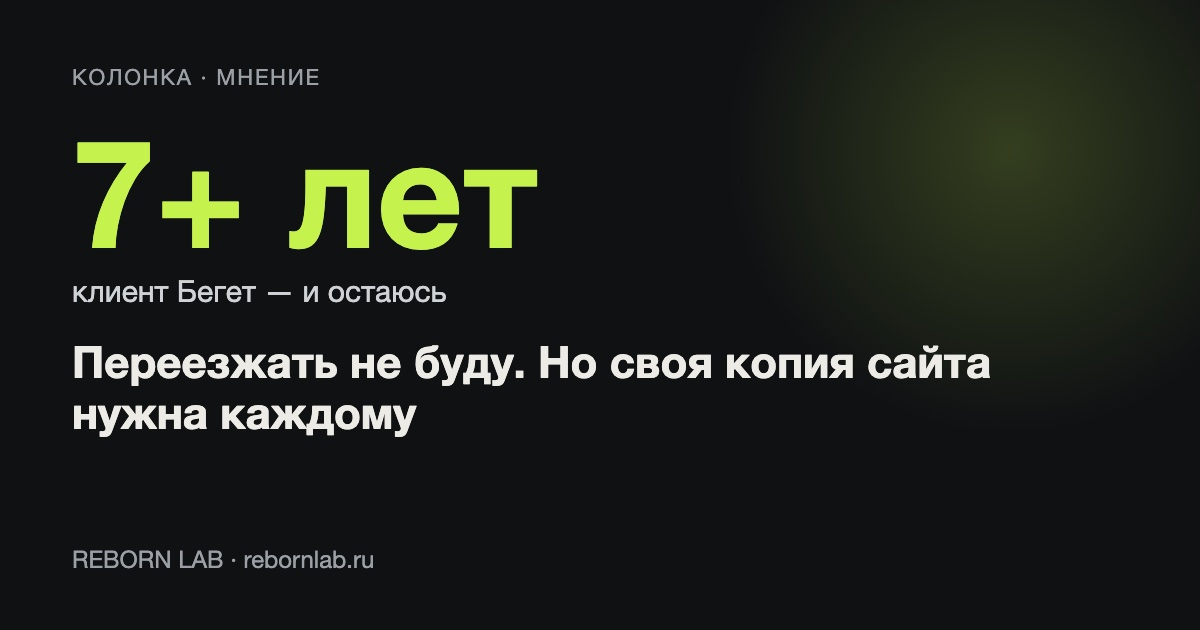
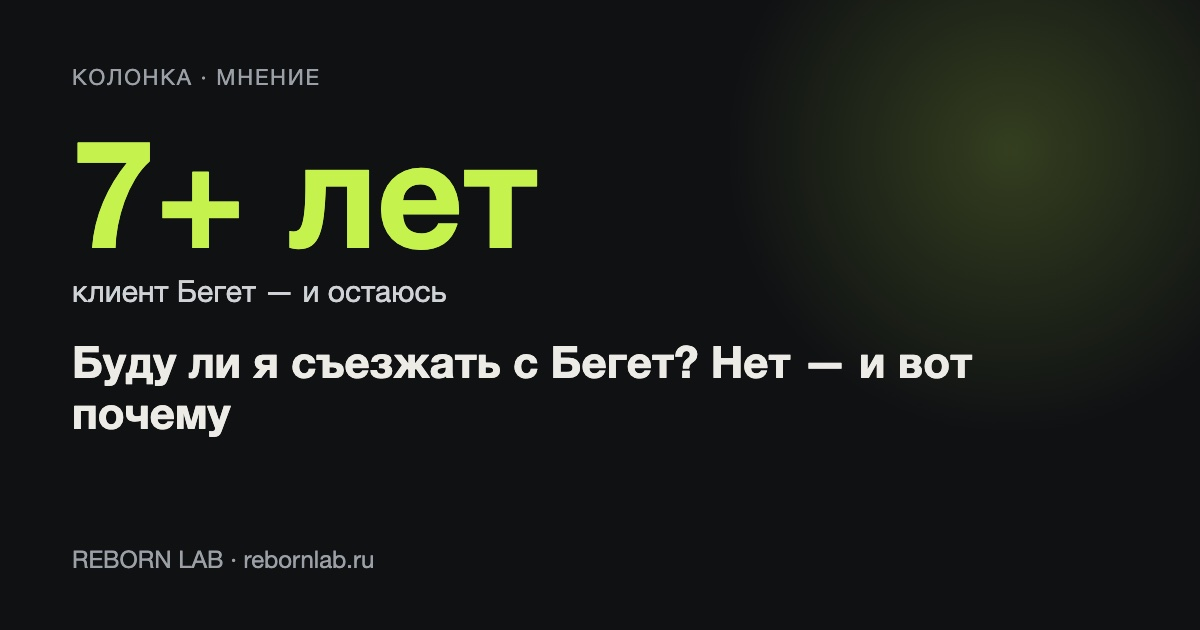
Черновик колонки: заголовок без давления, без советов команде

Changed region(s): [[0.0617, 0.5429, 0.8325, 0.6937]]

diff --git a/demo/preview-ostatsya/index.html b/demo/preview-ostatsya/index.html
@@ -3,26 +3,26 @@
 <head><meta name="robots" content="noindex, nofollow">
 <meta charset="utf-8">
 <meta name="viewport" content="width=device-width, initial-scale=1">
-<title>Буду ли я съезжать с Бегет? Нет — но у вас всегда должна быть своя копия сайта — REBORN LAB</title>
+<title>Буду ли я съезжать с Бегет после сбоя? Нет — и вот почему — REBORN LAB</title>
 <meta name="description" content="Я давно клиент Бегет и переезжать не собираюсь. Рассказываю, почему сбой меня не коснулся, что сделать, чтобы следующий сбой любого хостинга не стал катастрофой, и как быстро вернуть сайт, если он уже несколько дней не работает.">
 
 <meta property="og:type" content="article">
 <meta property="og:site_name" content="REBORN LAB">
 <meta property="og:locale" content="ru_RU">
-<meta property="og:title" content="Буду ли я съезжать с Бегет? Нет — но у вас всегда должна быть своя копия сайта — REBORN LAB">
+<meta property="og:title" content="Буду ли я съезжать с Бегет после сбоя? Нет — и вот почему — REBORN LAB">
 <meta property="og:description" content="Я давно клиент Бегет и переезжать не собираюсь. Рассказываю, почему сбой меня не коснулся, что сделать, чтобы следующий сбой любого хостинга не стал катастрофой, и как быстро вернуть сайт, если он уже несколько дней не работает.">
 <meta property="og:url" content="https://rebornlab.ru/journal/ostatsya-ili-pereekhat-hosting/">
 <meta property="og:image" content="https://rebornlab.ru/assets/journal/ostatsya-ili-pereekhat-hosting.jpg">
 <meta name="twitter:card" content="summary_large_image">
-<meta name="twitter:title" content="Буду ли я съезжать с Бегет? Нет — но у вас всегда должна быть своя копия сайта — REBORN LAB">
+<meta name="twitter:title" content="Буду ли я съезжать с Бегет после сбоя? Нет — и вот почему — REBORN LAB">
 <meta name="twitter:description" content="Я давно клиент Бегет и переезжать не собираюсь. Рассказываю, почему сбой меня не коснулся, что сделать, чтобы следующий сбой любого хостинга не стал катастрофой, и как быстро вернуть сайт, если он уже несколько дней не работает.">
 <meta name="twitter:image" content="https://rebornlab.ru/assets/journal/ostatsya-ili-pereekhat-hosting.jpg">
 <meta name="theme-color" content="#08090a">
 <link rel="icon" href="/assets/favicon.svg" type="image/svg+xml">
 <link rel="alternate" type="application/rss+xml" title="REBORN LAB — Журнал" href="/rss.xml">
 <link rel="stylesheet" href="/assets/styles.css?v=63fb7997">
-<script type="application/ld+json">{"@context":"https://schema.org","@type":"BreadcrumbList","itemListElement":[{"@type":"ListItem","position":1,"name":"Главная","item":"https://rebornlab.ru/"},{"@type":"ListItem","position":2,"name":"Журнал","item":"https://rebornlab.ru/journal/"},{"@type":"ListItem","position":3,"name":"Буду ли я съезжать с Бегет? Нет — но у вас всегда должна быть своя копия сайта","item":"https://rebornlab.ru/journal/ostatsya-ili-pereekhat-hosting/"}]}</script>
-<script type="application/ld+json">{"@context":"https://schema.org","@type":"Article","headline":"Буду ли я съезжать с Бегет? Нет — но у вас всегда должна быть своя копия сайта","description":"Я давно клиент Бегет и переезжать не собираюсь. Рассказываю, почему сбой меня не коснулся, что сделать, чтобы следующий сбой любого хостинга не стал катастрофой, и как быстро вернуть сайт, если он уже несколько дней не работает.","datePublished":"2026-11-08T10:00:00+03:00","dateModified":"2026-11-08T10:00:00+03:00","inLanguage":"ru","author":{"@type":"Organization","name":"REBORN LAB","url":"https://rebornlab.ru"},"publisher":{"@type":"Organization","name":"REBORN LAB","logo":{"@type":"ImageObject","url":"https://rebornlab.ru/assets/logo.png"}},"mainEntityOfPage":"https://rebornlab.ru/journal/ostatsya-ili-pereekhat-hosting/","image":"https://rebornlab.ru/assets/journal/ostatsya-ili-pereekhat-hosting.jpg","articleSection":"Сайты","wordCount":508}</script>
+<script type="application/ld+json">{"@context":"https://schema.org","@type":"BreadcrumbList","itemListElement":[{"@type":"ListItem","position":1,"name":"Главная","item":"https://rebornlab.ru/"},{"@type":"ListItem","position":2,"name":"Журнал","item":"https://rebornlab.ru/journal/"},{"@type":"ListItem","position":3,"name":"Буду ли я съезжать с Бегет после сбоя? Нет — и вот почему","item":"https://rebornlab.ru/journal/ostatsya-ili-pereekhat-hosting/"}]}</script>
+<script type="application/ld+json">{"@context":"https://schema.org","@type":"Article","headline":"Буду ли я съезжать с Бегет после сбоя? Нет — и вот почему","description":"Я давно клиент Бегет и переезжать не собираюсь. Рассказываю, почему сбой меня не коснулся, что сделать, чтобы следующий сбой любого хостинга не стал катастрофой, и как быстро вернуть сайт, если он уже несколько дней не работает.","datePublished":"2026-11-08T10:00:00+03:00","dateModified":"2026-11-08T10:00:00+03:00","inLanguage":"ru","author":{"@type":"Organization","name":"REBORN LAB","url":"https://rebornlab.ru"},"publisher":{"@type":"Organization","name":"REBORN LAB","logo":{"@type":"ImageObject","url":"https://rebornlab.ru/assets/logo.png"}},"mainEntityOfPage":"https://rebornlab.ru/journal/ostatsya-ili-pereekhat-hosting/","image":"https://rebornlab.ru/assets/journal/ostatsya-ili-pereekhat-hosting.jpg","articleSection":"Сайты","wordCount":499}</script>
 <script>window.RL_METRIKA=113418511;window.RL_LOAD_METRIKA=function(){(function(m,e,t,r,i,k,a){m[i]=m[i]||function(){(m[i].a=m[i].a||[]).push(arguments)};m[i].l=1*new Date();k=e.createElement(t),a=e.getElementsByTagName(t)[0],k.async=1,k.src=r,a.parentNode.insertBefore(k,a)})(window,document,'script','https://mc.yandex.ru/metrika/tag.js?id=113418511','ym');ym(113418511,'init',{ssr:true,webvisor:true,clickmap:true,ecommerce:'dataLayer',referrer:document.referrer,url:location.href,accurateTrackBounce:true,trackLinks:true})};</script>
 </head>
 <body>
@@ -33,12 +33,12 @@
   <button class="burger" aria-label="Меню" aria-expanded="false">☰</button>
 </div></header>
 <div style="background:#c6f24e;color:#111;text-align:center;padding:10px;font:600 14px sans-serif">ЧЕРНОВИК для Ника — не опубликован, не в журнале, скрыт от поисковиков</div><main>
-<article><div class="wrap page-hd"><div class="crumbs"><a href="/">Главная</a> / <a href="/journal/">Журнал</a> / Буду ли я съезжать с Бегет? Нет — но у вас всегда должна быть своя копия сайта</div><div class="kicker" style="margin-top:18px">Сайты · 8 ноября 2026 г., 10:00 МСК · 3 мин</div><h1 style="max-width:20ch">Буду ли я съезжать с Бегет? Нет — но у вас всегда должна быть своя копия сайта</h1><p class="sub">Я давно клиент Бегет и переезжать не собираюсь. Рассказываю, почему сбой меня не коснулся, что сделать, чтобы следующий сбой любого хостинга не стал катастрофой, и как быстро вернуть сайт, если он уже несколько дней не работает.</p><img src="/assets/journal/ostatsya-ili-pereekhat-hosting.jpg" alt="Буду ли я съезжать с Бегет? Нет — но у вас всегда должна быть своя копия сайта" width="1200" height="630" style="display:block;width:100%;max-width:900px;height:auto;border-radius:16px;margin-top:22px"></div>
+<article><div class="wrap page-hd"><div class="crumbs"><a href="/">Главная</a> / <a href="/journal/">Журнал</a> / Буду ли я съезжать с Бегет после сбоя? Нет — и вот почему</div><div class="kicker" style="margin-top:18px">Сайты · 8 ноября 2026 г., 10:00 МСК · 3 мин</div><h1 style="max-width:20ch">Буду ли я съезжать с Бегет после сбоя? Нет — и вот почему</h1><p class="sub">Я давно клиент Бегет и переезжать не собираюсь. Рассказываю, почему сбой меня не коснулся, что сделать, чтобы следующий сбой любого хостинга не стал катастрофой, и как быстро вернуть сайт, если он уже несколько дней не работает.</p><img src="/assets/journal/ostatsya-ili-pereekhat-hosting.jpg" alt="Буду ли я съезжать с Бегет после сбоя? Нет — и вот почему" width="1200" height="630" style="display:block;width:100%;max-width:900px;height:auto;border-radius:16px;margin-top:22px"></div>
     <div class="wrap"><div class="prose"><p>Коротко: я клиент Бегет больше семи лет и никуда переезжать не собираюсь. Но этот сбой — хороший повод сделать одну простую вещь, которая защищает от любых аварий у любого хостинга: держать свою свежую копию сайта. Ниже — почему меня сбой не коснулся, что сделать, когда сайт снова заработает, и что делать, если сайт уже несколько дней не открывается.</p>
 <h2 id="pochemu-ya-ostayus">Почему я остаюсь</h2>
 <p>За все годы поддержка Бегет ни разу меня не подвела: отвечали быстро, по делу и всегда помогали решать вопросы. Я это ценил и ценю.</p>
 <p>Когда случился сбой, я сначала его даже не заметил. Мои сайты лежат на Бегет, но адреса настроены через отдельные DNS-серверы — и у меня всё работало без перебоев. О проблеме я узнал от подруги: у неё сайт не открывался, и я помог его вернуть.</p>
-<p>Каждый имеет право на ошибку. У крупных сервисов тоже бывают серьёзные сбои — их чинят, делают выводы и работают дальше, никто не разбегается. Уверен, что команда Бегет справится и учтёт этот опыт.</p>
+<p>У крупных сервисов тоже бывают серьёзные сбои — их чинят, делают выводы и работают дальше, никто не разбегается. Уверен, что команда Бегет справится.</p>
 <p>Это не реклама и мне за этот текст никто не платил — это просто то, что я думаю и как поступаю сам.</p>
 <h2 id="esli-vy-dumaete-ostavatsya-ili-uhodit">Если вы думаете, оставаться или уходить</h2>
 <p>Если вы доверяете Бегет, я бы на вашем месте остался. Но с одним условием: у вас всегда должна быть своя свежая копия сайта. Тогда любой сбой у любого хостинга — не катастрофа, а переезд на пару часов.</p>
